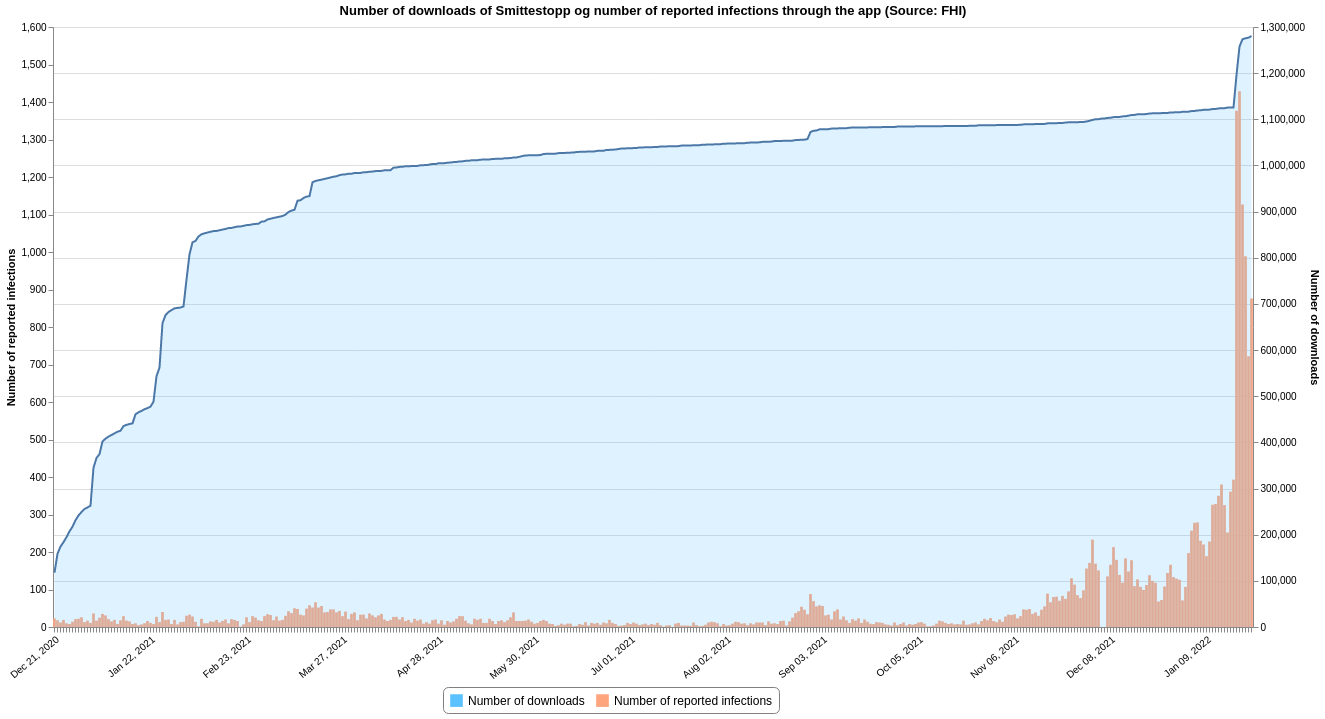
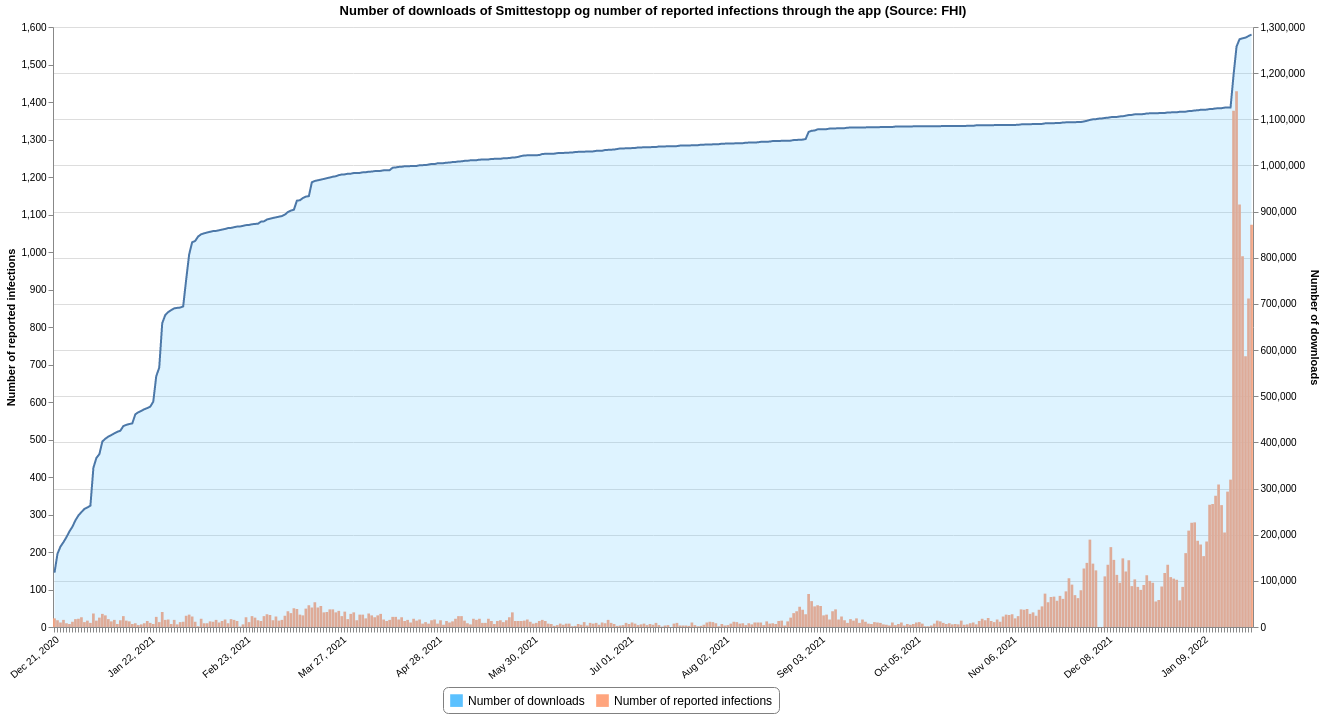
Updated 2022-01-26 11:11

diff --git a/README.md b/README.md
@@ -17,7 +17,7 @@ This repository contains datasets of daily time-series data related to COVID-19 
 |[Tested Lab](#tested_labcsv)|FHI|2022-01-25 13:20:53+01:00|[<center>csv</center>](https://raw.githubusercontent.com/frefrik/covid19norge-data/main/data/tested_lab.csv)|[<center>preview</center>](data/tested_lab.csv)|
 |[Transport](#transportcsv)|FHI|2021-09-24 23:10:46+02:00|[<center>csv</center>](https://raw.githubusercontent.com/frefrik/covid19norge-data/main/data/transport.csv)|[<center>preview</center>](data/transport.csv)|
 |[Vaccine Doses](#vaccine_dosescsv)|FHI|2022-01-25 13:20:57+01:00|[<center>csv</center>](https://raw.githubusercontent.com/frefrik/covid19norge-data/main/data/vaccine_doses.csv)|[<center>preview</center>](data/vaccine_doses.csv)|
-|[Smittestopp](#smittestoppcsv)|FHI|2022-01-25 10:30:58+01:00|[<center>csv</center>](https://raw.githubusercontent.com/frefrik/covid19norge-data/main/data/smittestopp.csv)|[<center>preview</center>](data/smittestopp.csv)|
+|[Smittestopp](#smittestoppcsv)|FHI|2022-01-26 11:10:53+01:00|[<center>csv</center>](https://raw.githubusercontent.com/frefrik/covid19norge-data/main/data/smittestopp.csv)|[<center>preview</center>](data/smittestopp.csv)|
 |[Omicron](#omicroncsv)|FHI|2021-12-22 10:11:05+01:00|[<center>csv</center>](https://raw.githubusercontent.com/frefrik/covid19norge-data/main/data/omicron.csv)|[<center>preview</center>](data/omicron.csv)|
 <!-- table ends -->
 
